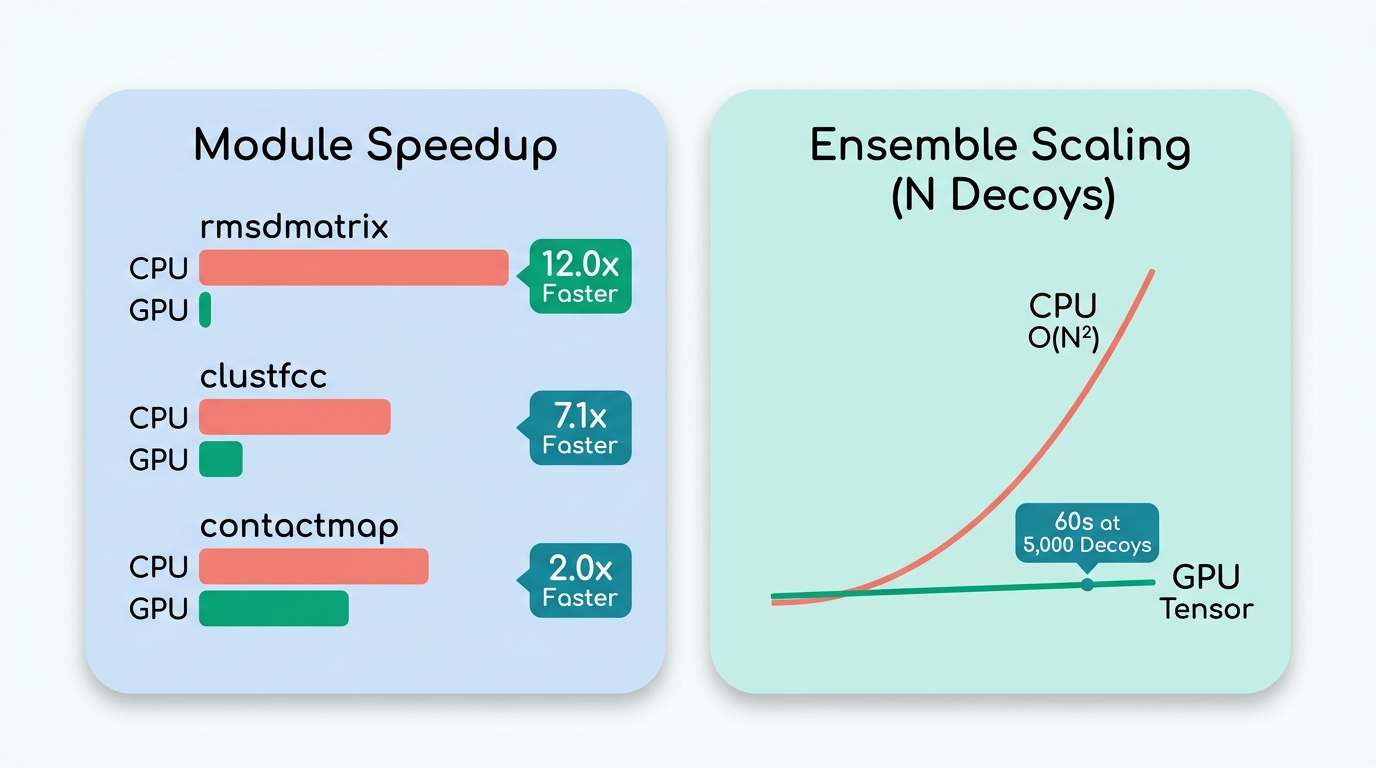
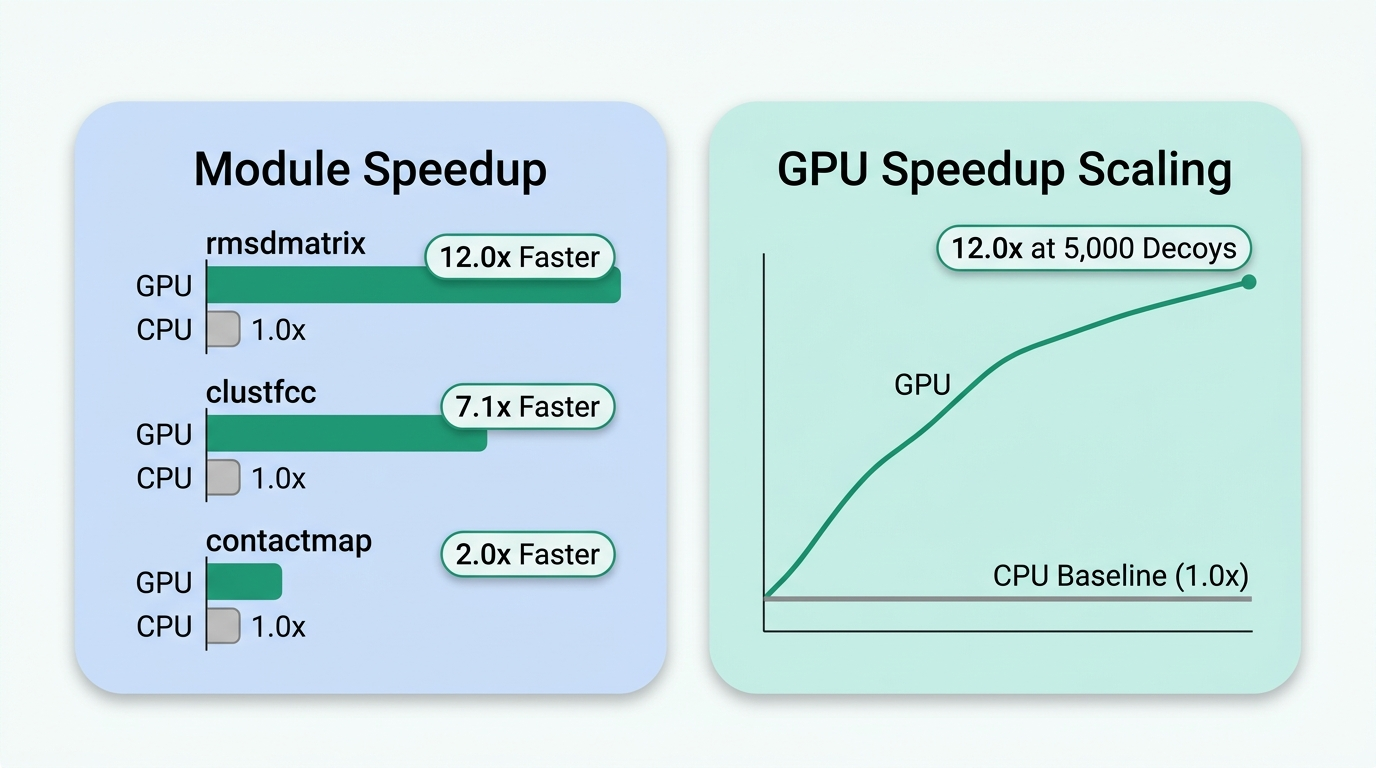
docs(benchmark): revise speedup chart to make GPU taller/dominant (higher is better)

diff --git a/benchmark/MEDIUM_ARTICLE.md b/benchmark/MEDIUM_ARTICLE.md
@@ -95,7 +95,7 @@ To prove this acceleration is publication-grade and industrially reliable, we ex
 At production ensemble scale, the speedup is dramatic:
 
 ![HADDOCK3 GPU Speedup and Runtime Benchmark Comparison](charts/haddock3_gpu_speedup_benchmarks.jpg)
-*Figure 5: Performance scaling across 12,497,500 pairwise calculations on an NVIDIA A100 GPU vs 8-core CPU baseline. Left: Module speedups comparing CPU runtime against GPU execution for rmsdmatrix (12.0x faster), clustfcc (7.1x faster), and contactmap (2.0x faster). Right: Computational scaling curves showing exponential CPU O(N²) explosion versus near-linear GPU tensor throughput (collapsing 5,000 decoys to 60 seconds).*
+*Figure 5: Performance scaling across 12,497,500 pairwise calculations on an NVIDIA A100 GPU vs 8-core CPU baseline. Left: Module speedups comparing GPU acceleration against the CPU 1.0x baseline for rmsdmatrix (12.0x faster), clustfcc (7.1x faster), and contactmap (2.0x faster). Right: GPU speedup scaling across ensemble sizes, showing GPU acceleration rising to a 12.0x advantage at 5,000 decoys over the flat CPU baseline.*
 
 ```
 +-------------------------------------------------------------------------------------------------------+
